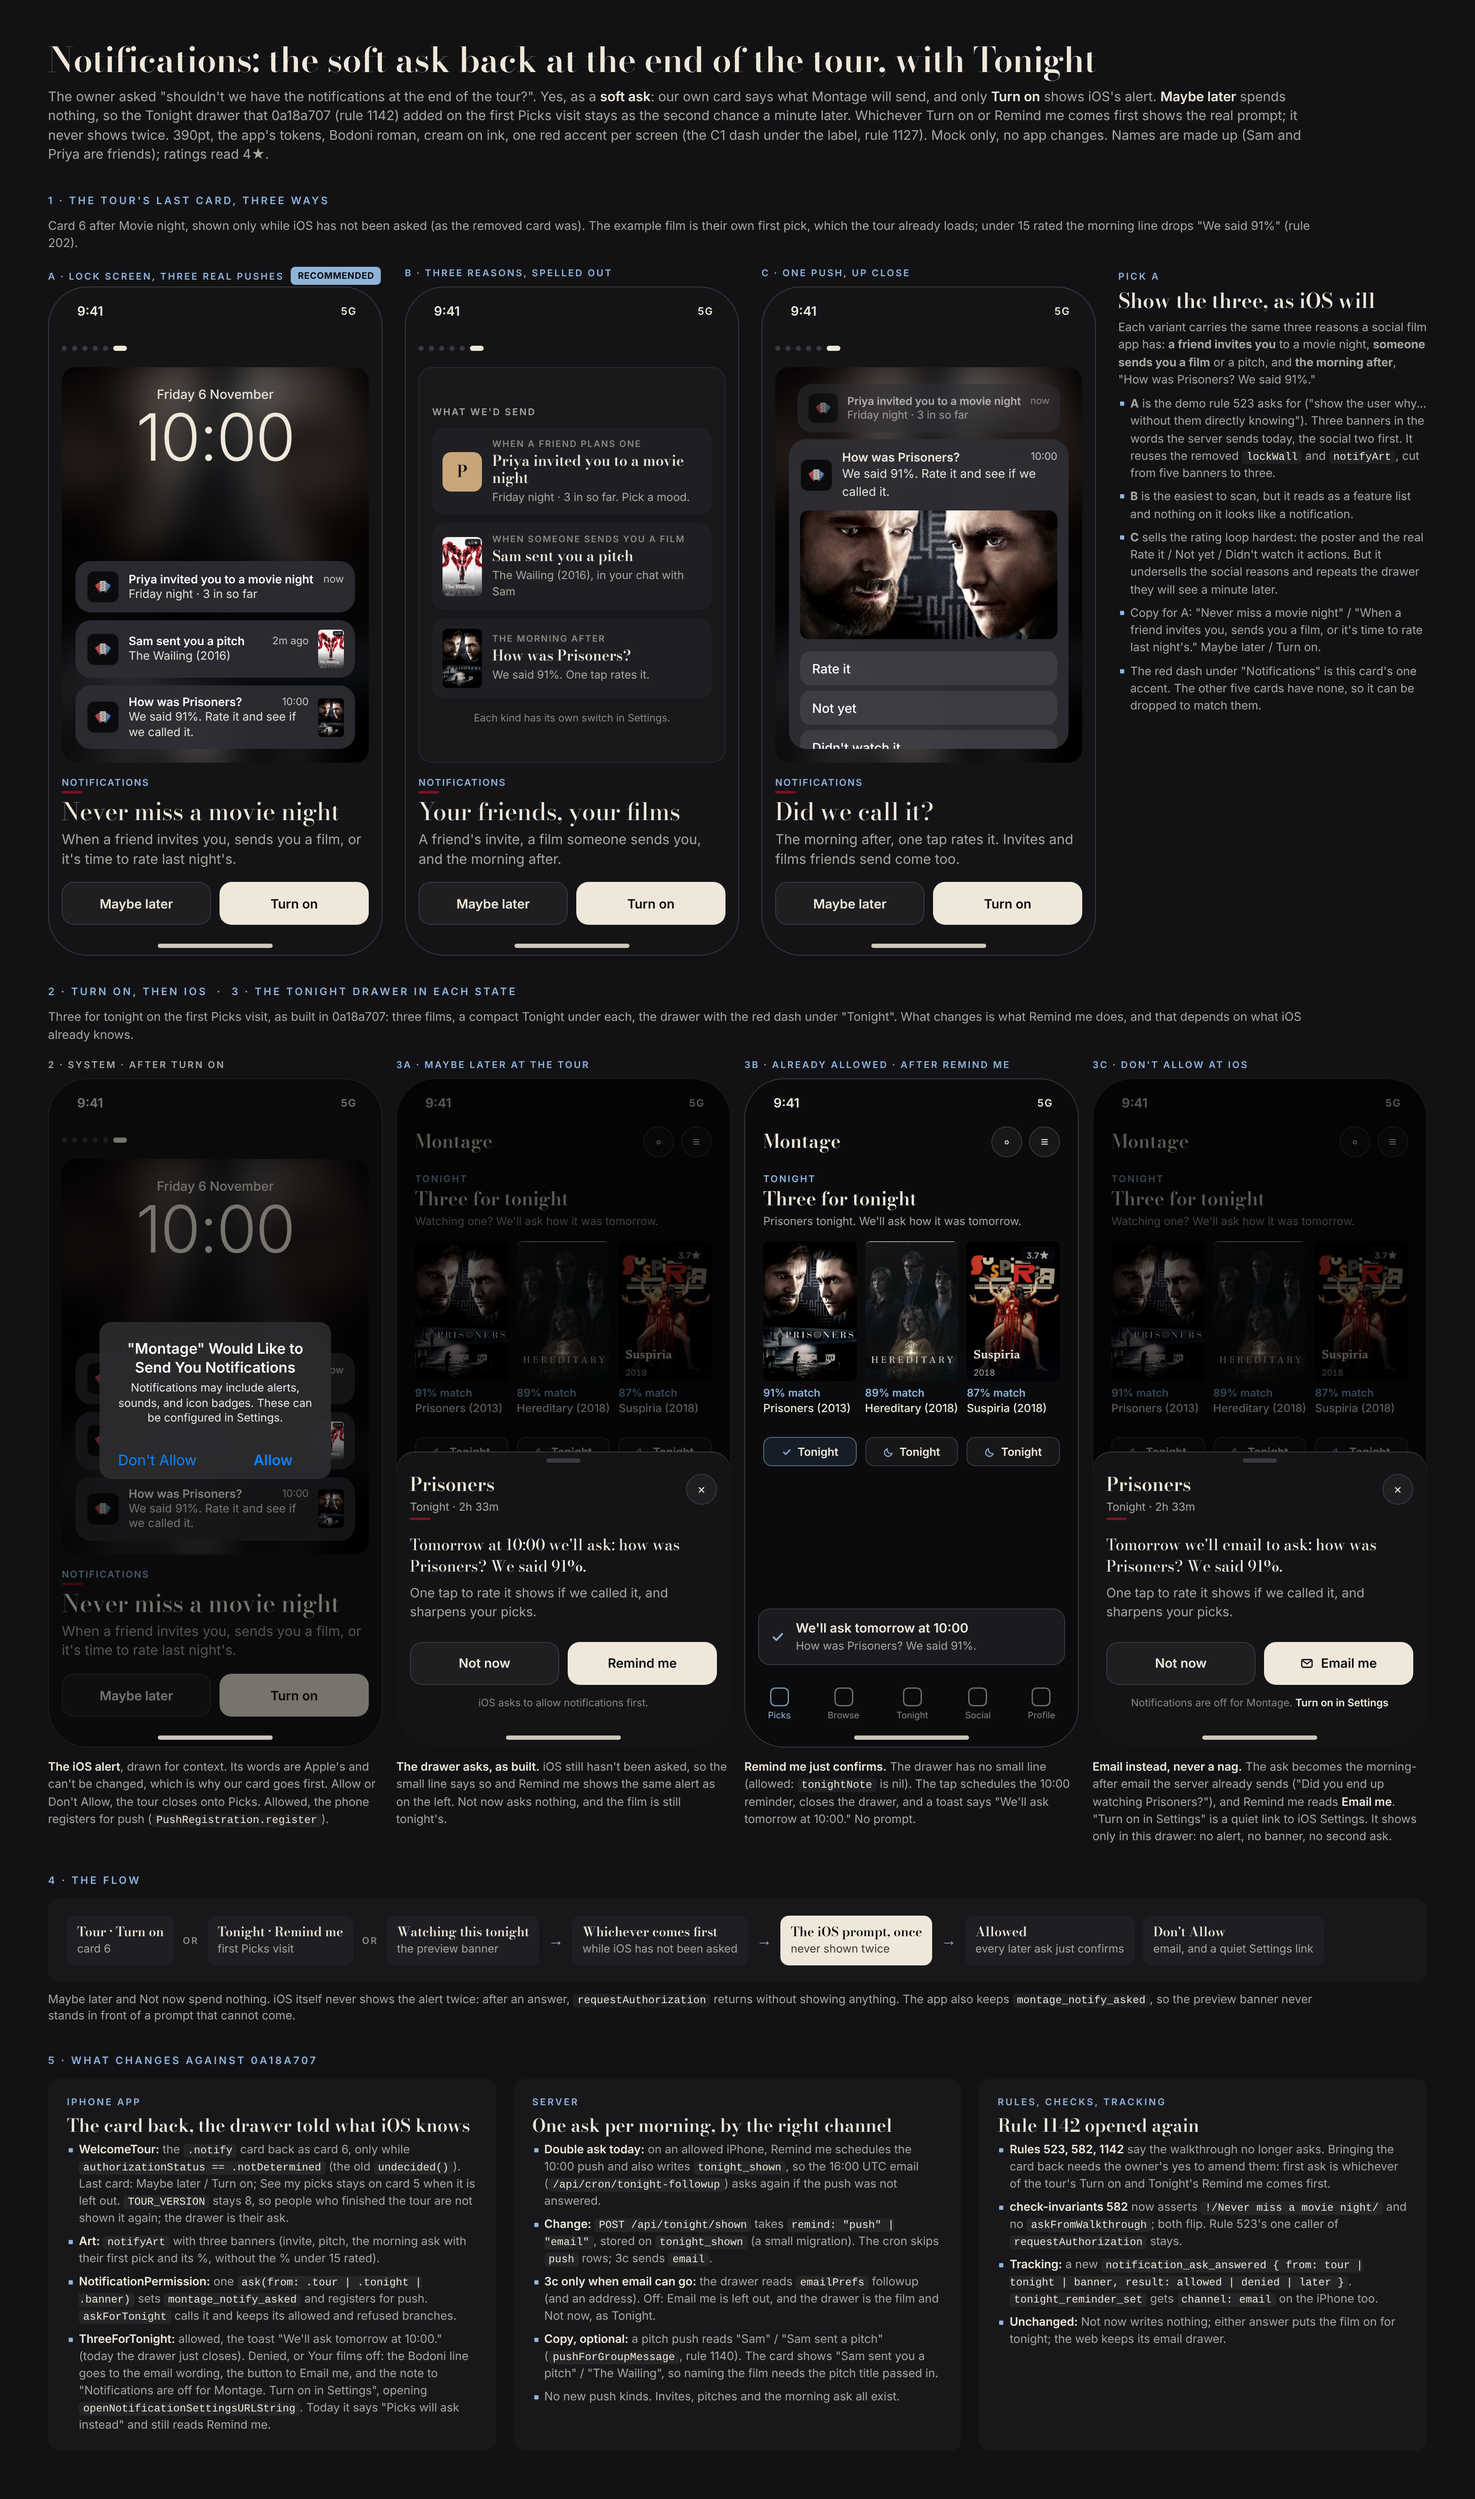
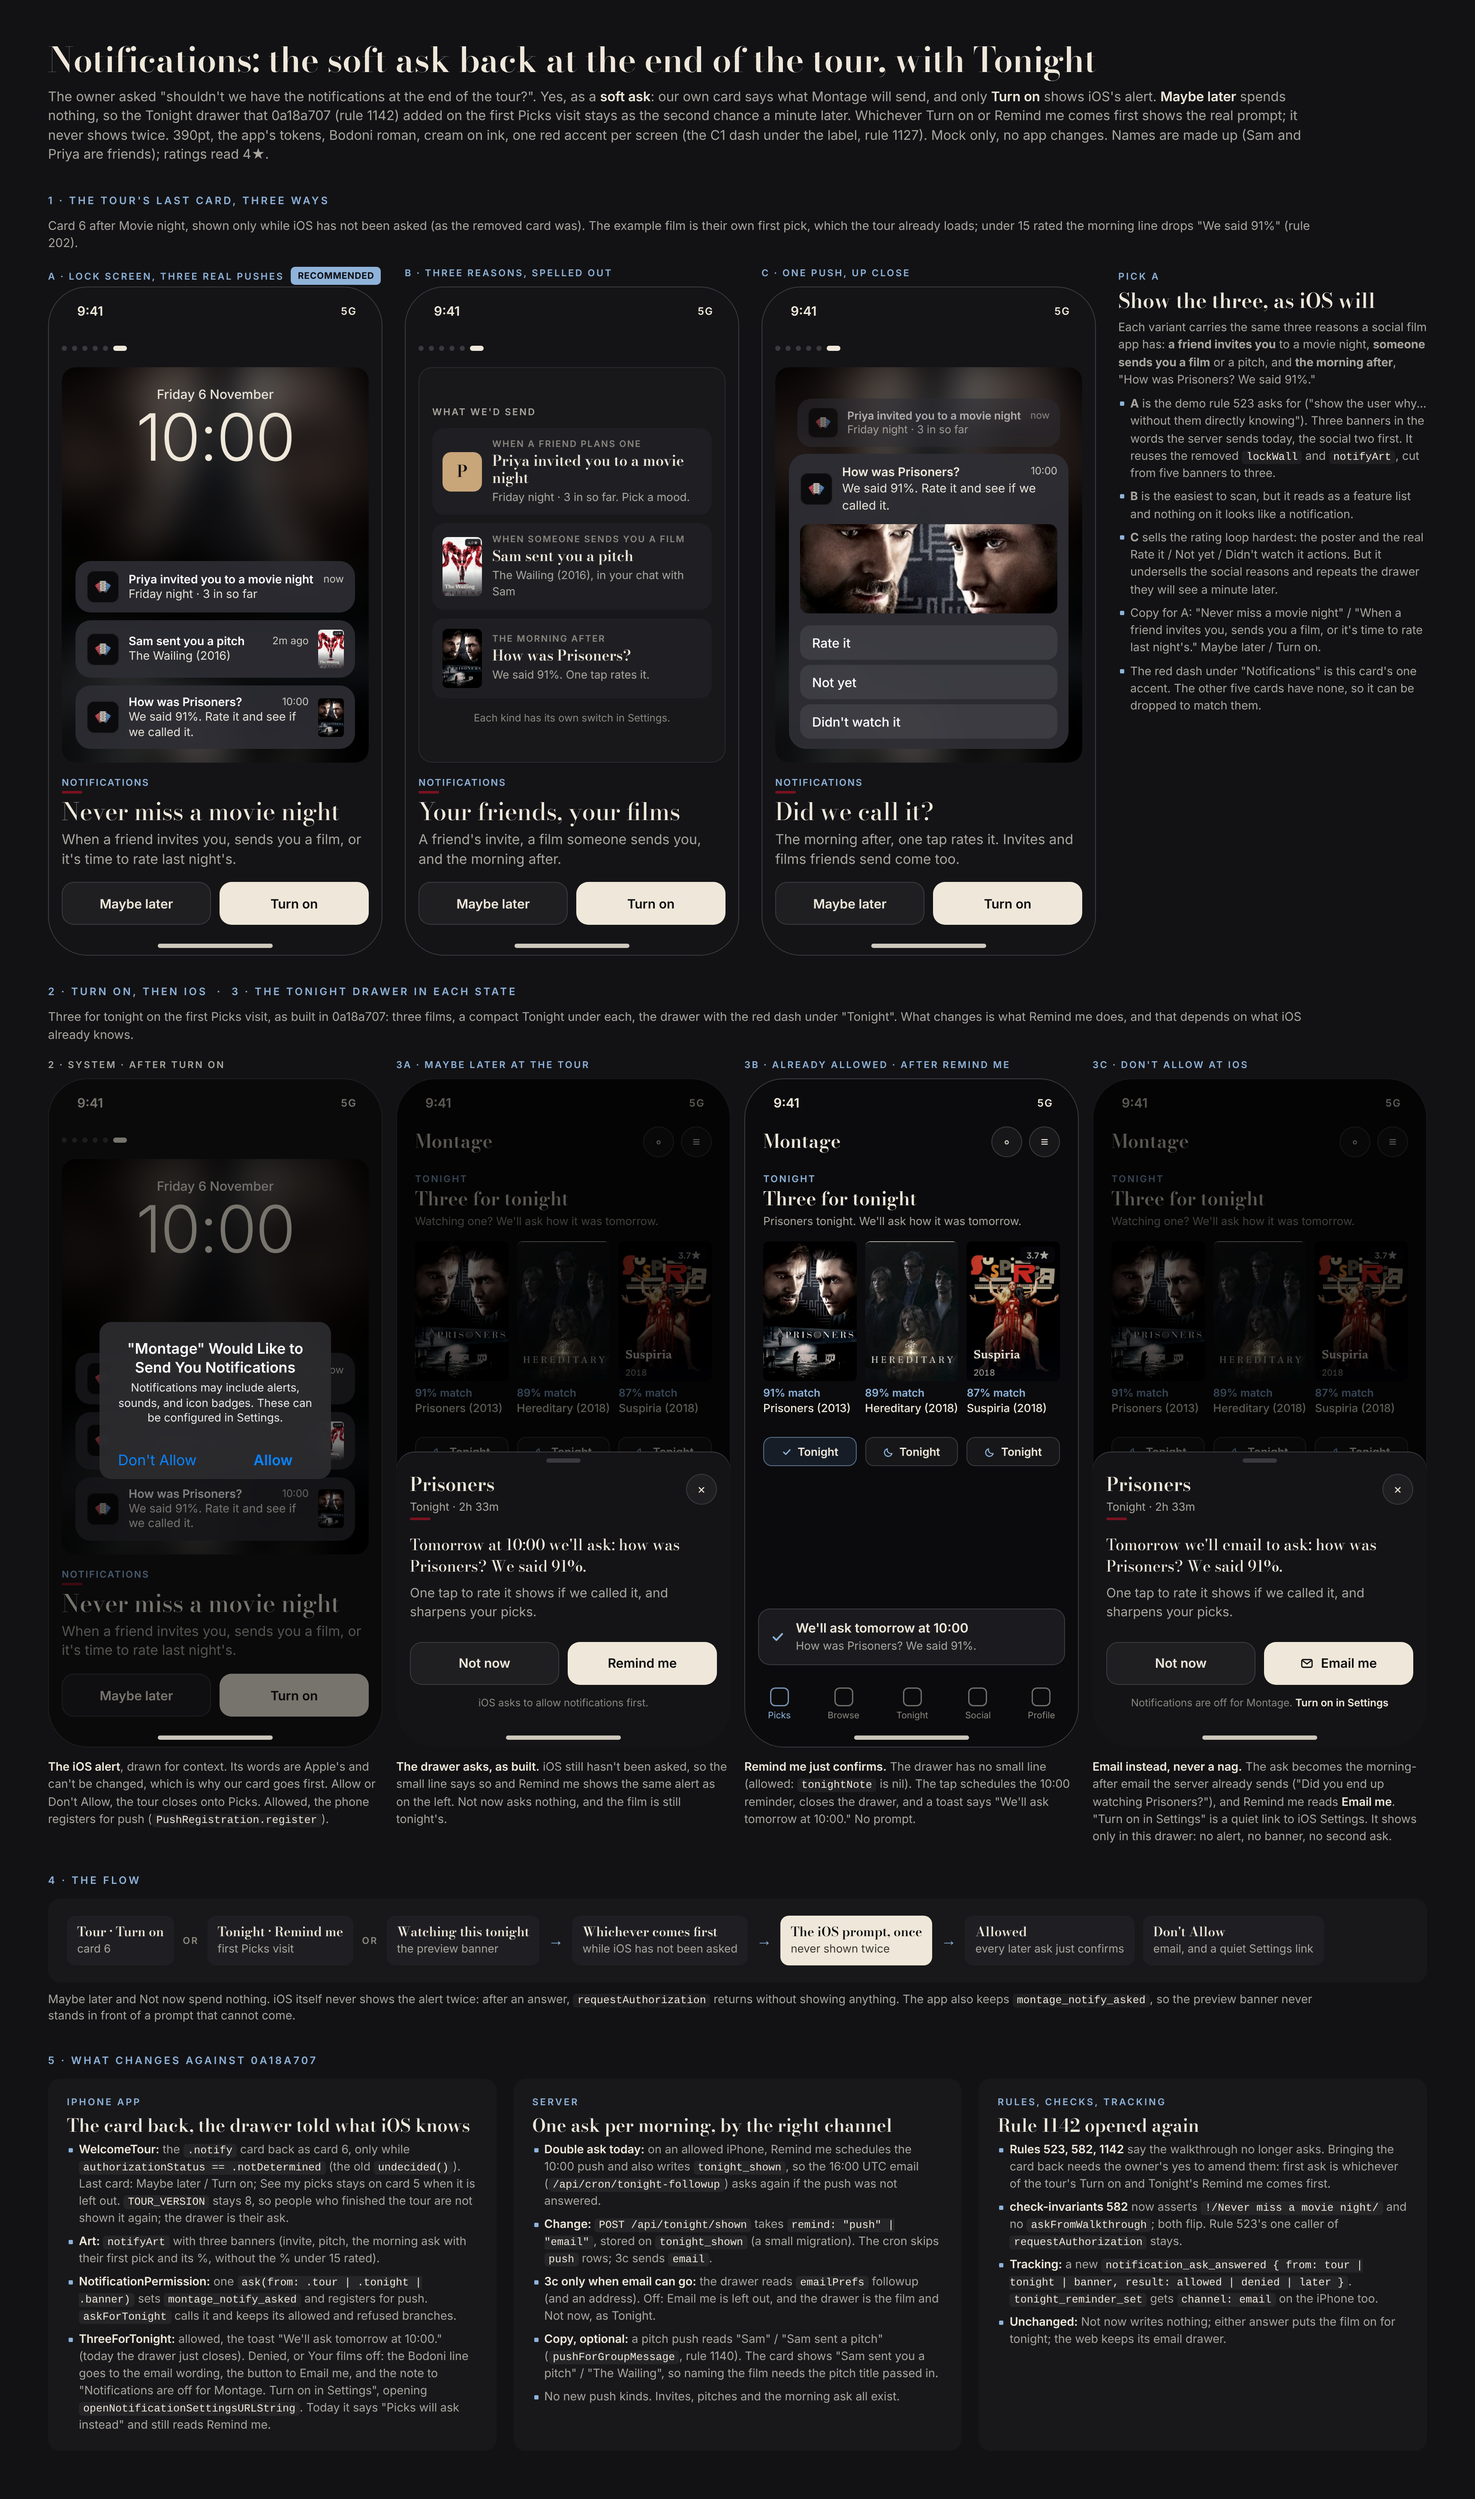
Mock: notifications soft ask back as the tour's last card (three variants, A recommended), the iOS alert after Turn on, and the Tonight drawer when iOS is unasked, allowed or denied, with the flow and the changes against 0a18a707
Claude-Session: https://claude.ai/code/session_013WRDCFXH8nihP92apJAVW7

Changed region(s): [[0.5288, 0.1562, 0.7154, 0.3124]]

diff --git a/mockups/journeys/notif-ask-v1.html b/mockups/journeys/notif-ask-v1.html
@@ -46,7 +46,7 @@
 /* variant C: one notification, expanded, with its actions */
 .xp{background:rgba(46,46,52,.94);border-radius:20px;overflow:hidden}
 .xp .top{display:flex;gap:11px;align-items:center;padding:12px 13px}
-.xp .big{height:150px;background:center 30%/cover;margin:0 13px;border-radius:10px}
+.xp .big{height:104px;background:center 30%/cover;margin:0 13px;border-radius:10px}
 .xp .act{padding:6px 13px 12px;display:flex;flex-direction:column;gap:6px}
 .xp .act div{height:40px;border-radius:12px;background:rgba(255,255,255,.08);display:flex;align-items:center;padding:0 14px;font:500 15px Inter;color:#fff}
 
